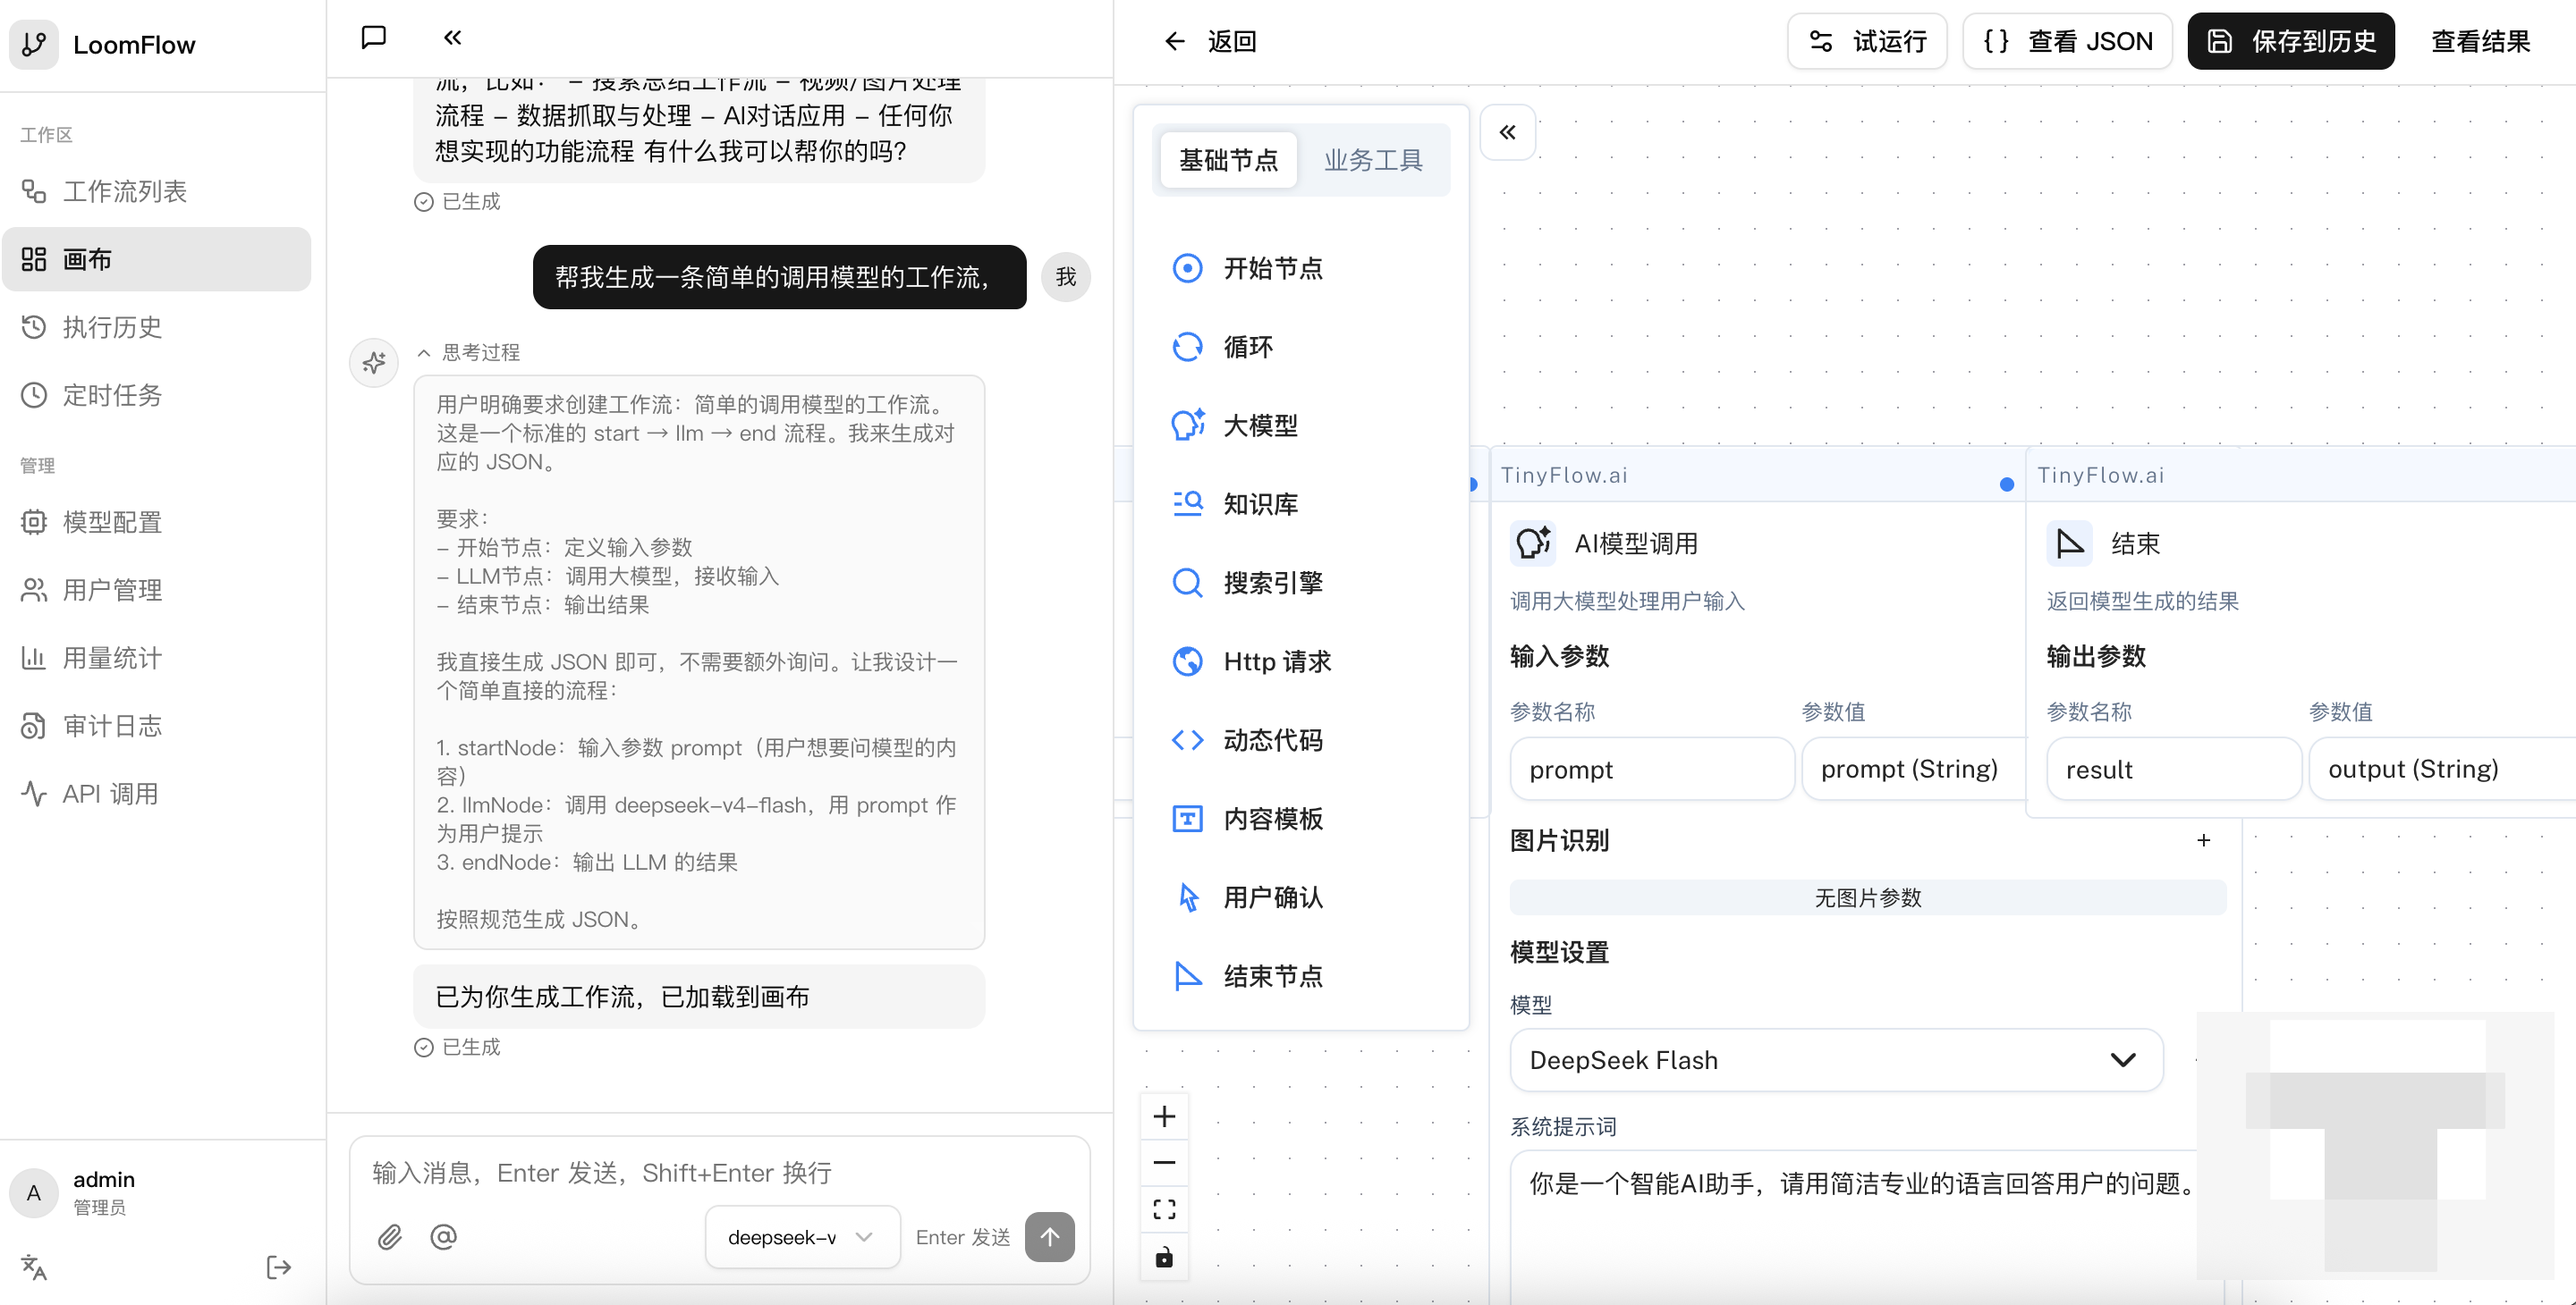
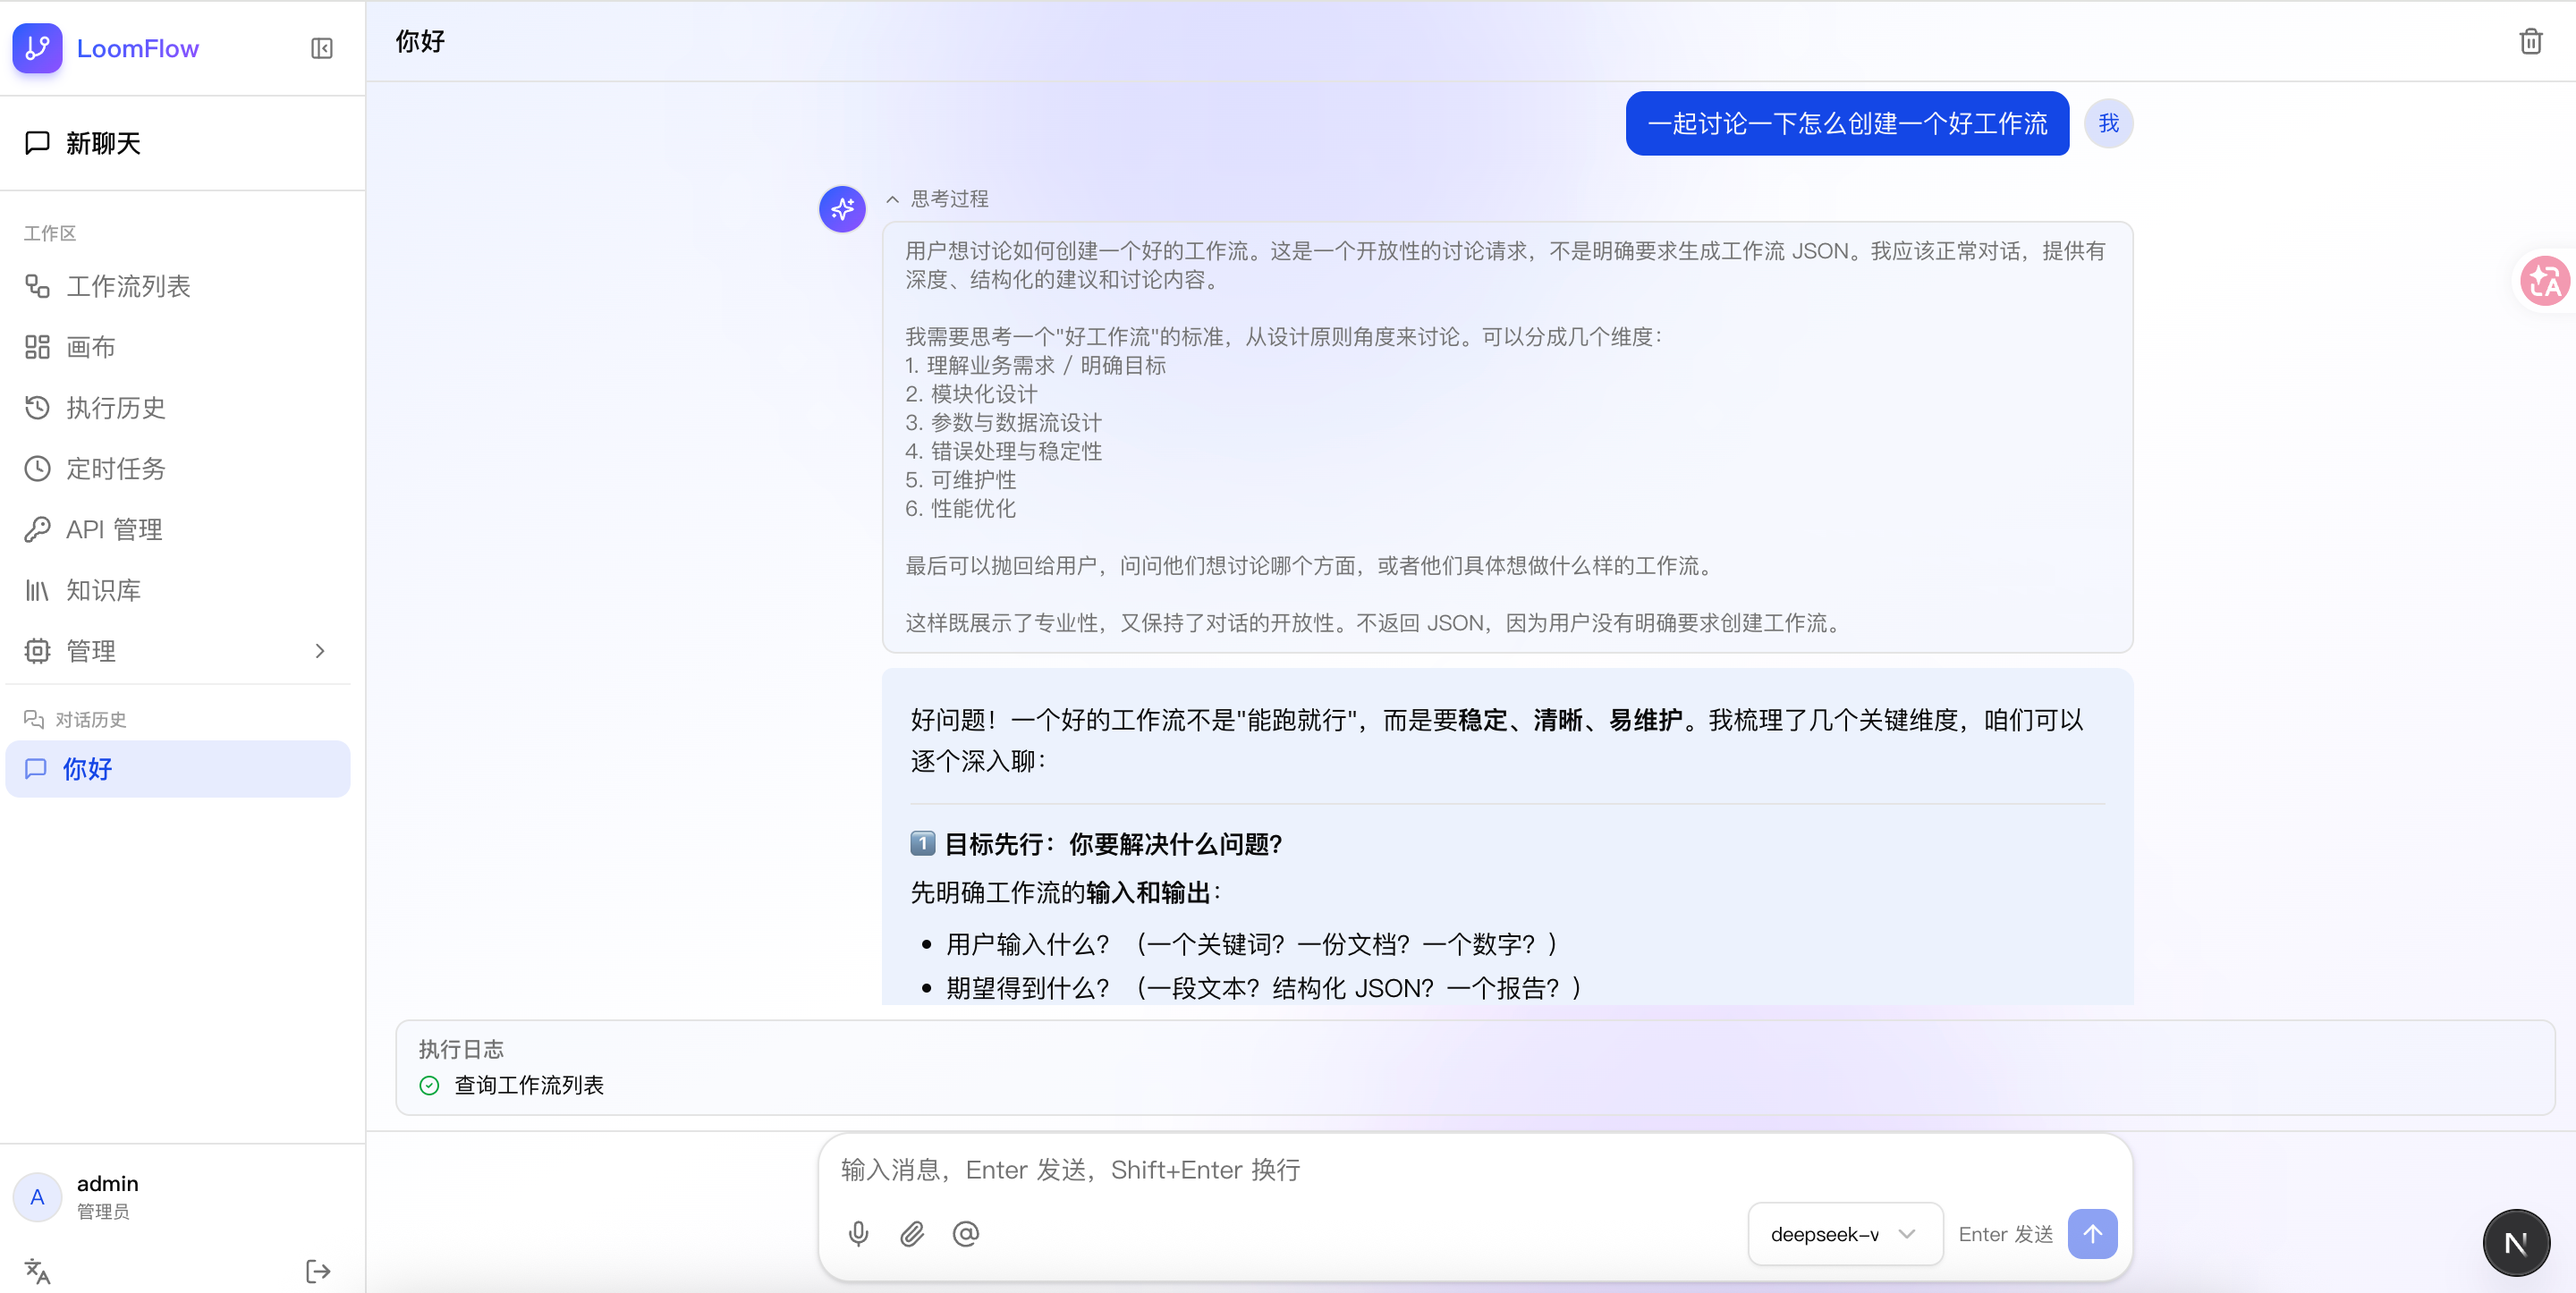
fix: README 截图补提交并规范路径（screenshots/chat.png + canvas.png）

diff --git a/README.md b/README.md
@@ -12,9 +12,9 @@ Describe your idea in natural language → generate a runnable workflow → cust
 
 ## 📸 Screenshots
 
-![LoomFlow Chat](public/5be70282164e16081cdf02fd3a5dba99.png)
+![LoomFlow Chat](public/screenshots/chat.png)
 
-![LoomFlow Workflow Canvas](public/a165e581f754768c6241e36797e41eaa.png)
+![LoomFlow Workflow Canvas](public/screenshots/canvas.png)
 
 ---
 

diff --git a/README.zh-CN.md b/README.zh-CN.md
@@ -12,9 +12,9 @@
 
 ## 📸 界面截图
 
-![LoomFlow 对话](public/5be70282164e16081cdf02fd3a5dba99.png)
+![LoomFlow 对话](public/screenshots/chat.png)
 
-![LoomFlow 工作流画布](public/a165e581f754768c6241e36797e41eaa.png)
+![LoomFlow 工作流画布](public/screenshots/canvas.png)
 
 ---
 
